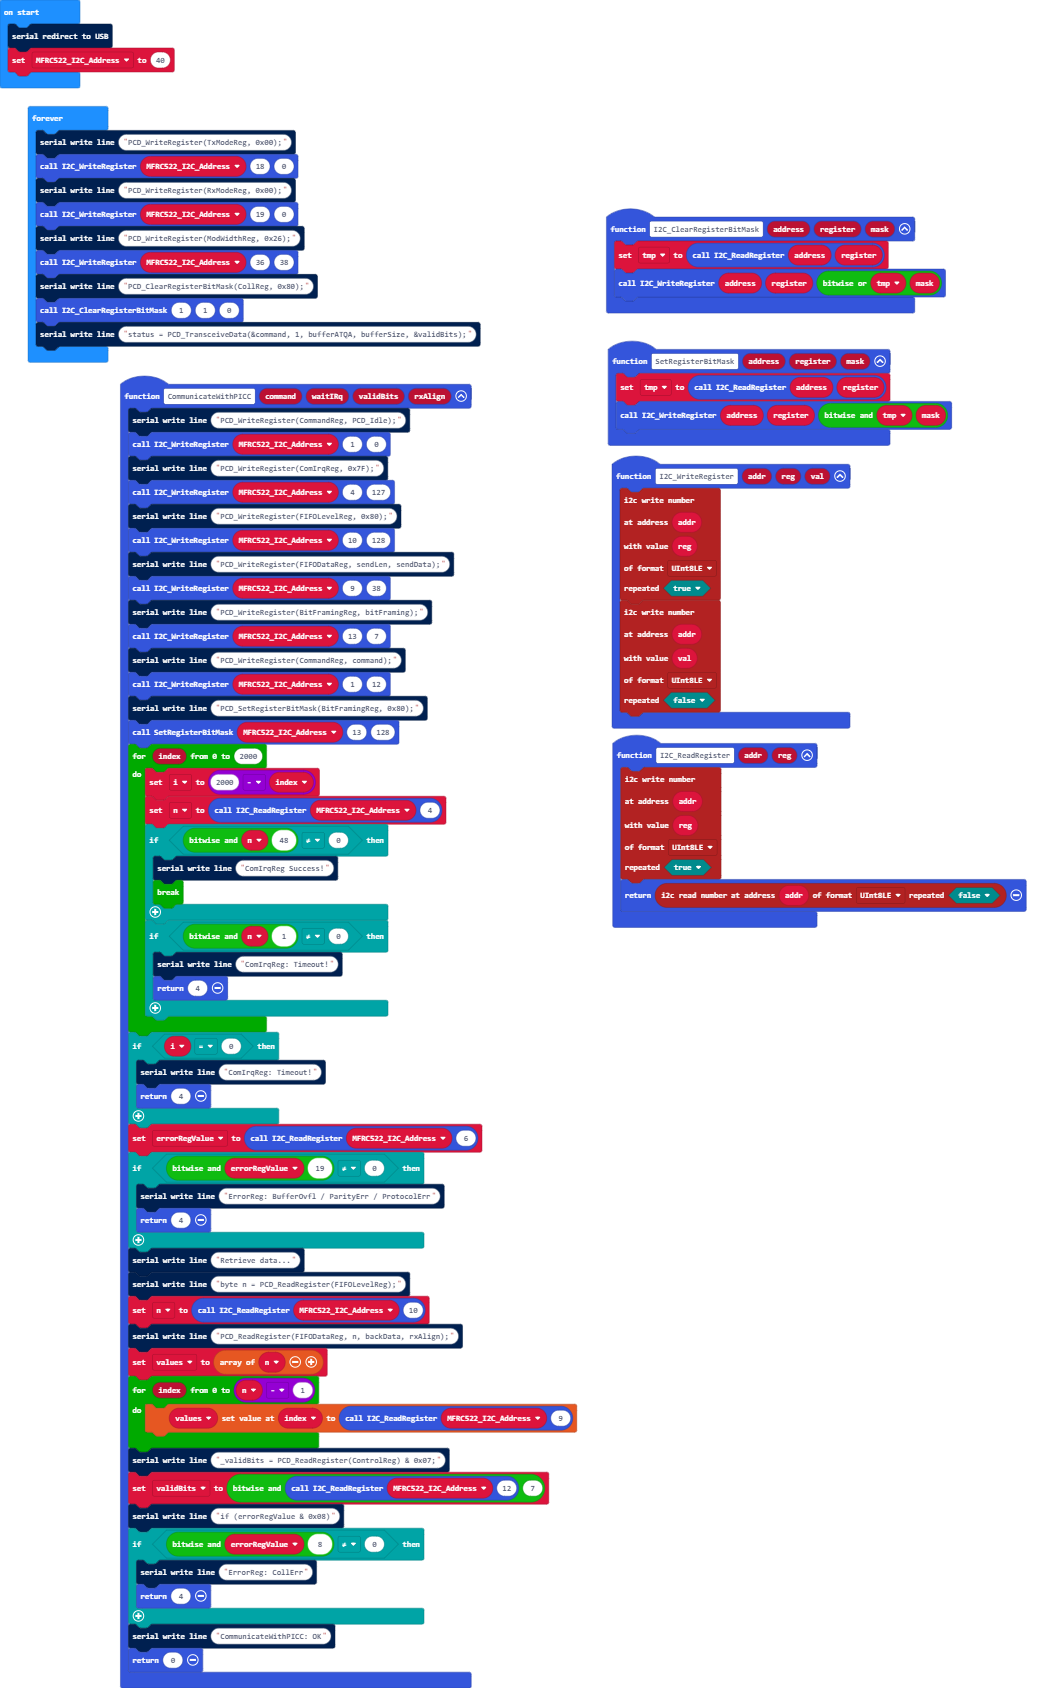
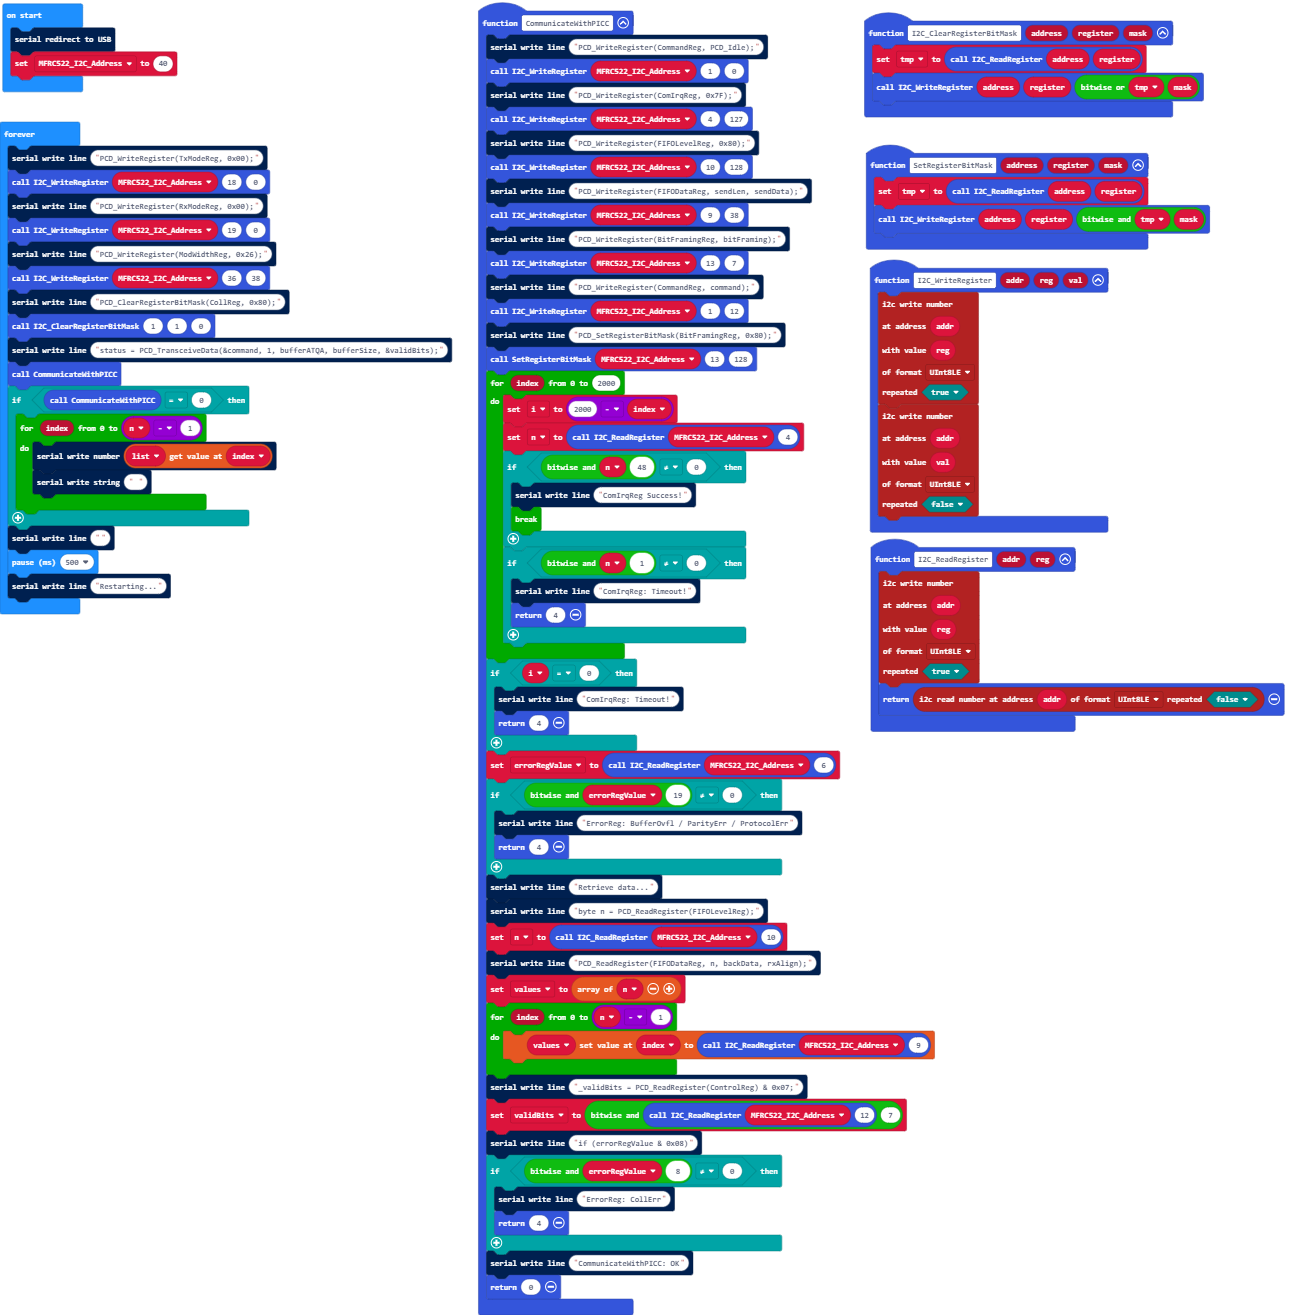
Might work...maybe

diff --git a/main.ts b/main.ts
@@ -20,7 +20,7 @@ function I2C_ClearRegisterBitMask (address: number, register: number, mask: numb
     tmp = I2C_ReadRegister(address, register)
     I2C_WriteRegister(address, register, custom.BitwiseOr(tmp, mask))
 }
-function CommunicateWithPICC (command: number, waitIRq: number, validBits: number, rxAlign: number) {
+function CommunicateWithPICC () {
     serial.writeLine("PCD_WriteRegister(CommandReg, PCD_Idle);")
     I2C_WriteRegister(MFRC522_I2C_Address, 1, 0)
     serial.writeLine("PCD_WriteRegister(ComIrqReg, 0x7F);")
@@ -102,4 +102,15 @@ basic.forever(function () {
     serial.writeLine("PCD_ClearRegisterBitMask(CollReg, 0x80);")
     I2C_ClearRegisterBitMask(1, 1, 0)
     serial.writeLine("status = PCD_TransceiveData(&command, 1, bufferATQA, bufferSize, &validBits);")
+    CommunicateWithPICC()
+    if (CommunicateWithPICC() == 0) {
+        for (let index = 0; index <= n - 1; index++) {
+            let list: number[] = []
+            serial.writeNumber(list[index])
+            serial.writeString(" ")
+        }
+    }
+    serial.writeLine("")
+    basic.pause(500)
+    serial.writeLine("Restarting...")
 })
